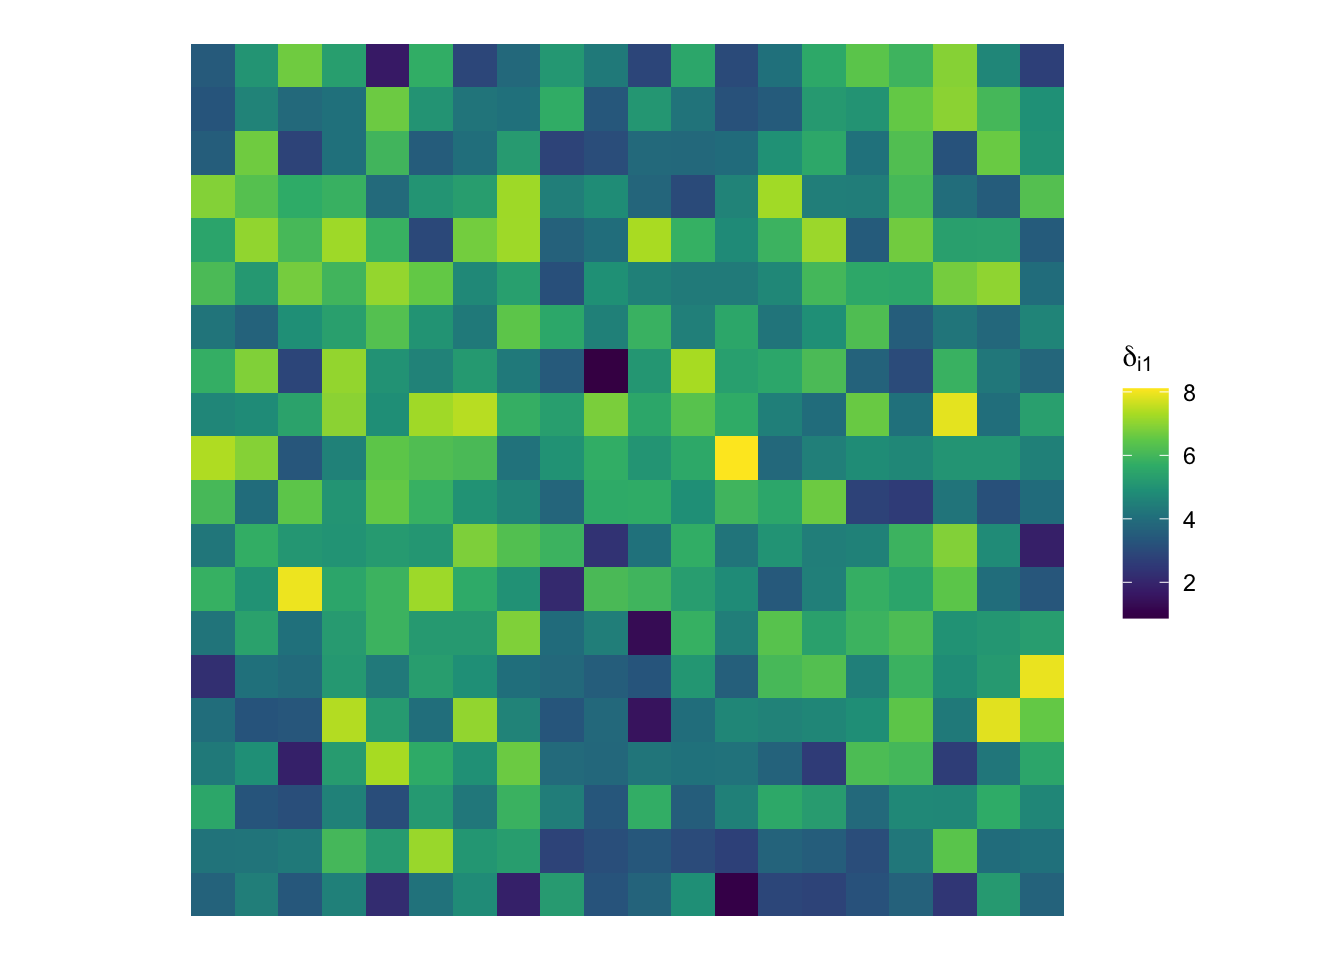
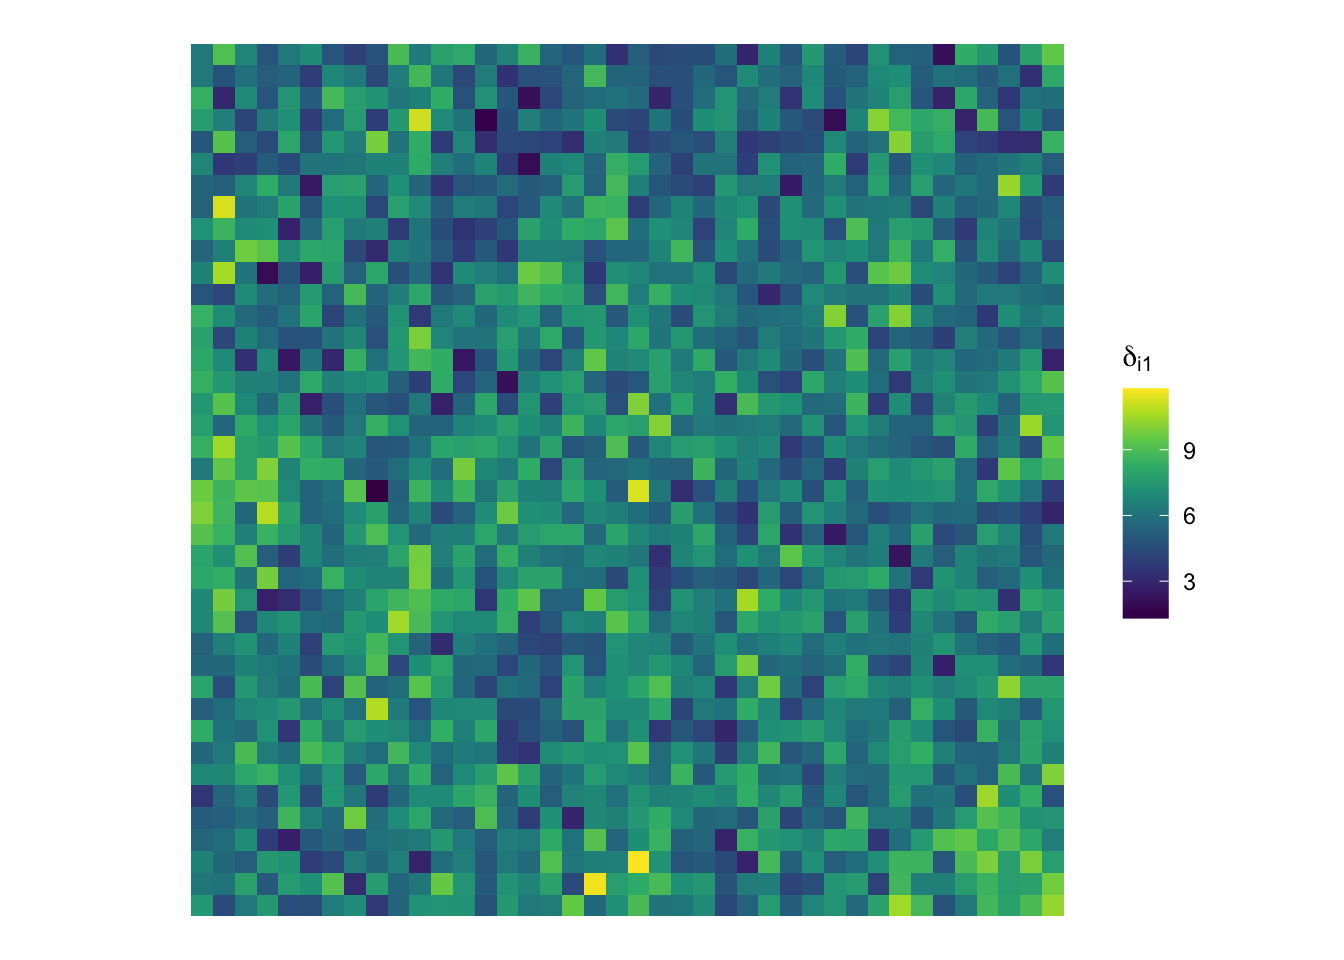
update research 12

diff --git a/docs/research/2023-03-07-Step-12-MCMC-for-MCAR-basic-example/index.html b/docs/research/2023-03-07-Step-12-MCMC-for-MCAR-basic-example/index.html
@@ -344,7 +344,7 @@ n &amp;= \text{number of areal units}\\
 <details>
 <summary>Code</summary>
 <div class="sourceCode cell-code" id="cb2"><pre class="sourceCode r code-with-copy"><code class="sourceCode r"><span id="cb2-1"><a href="#cb2-1" aria-hidden="true" tabindex="-1"></a><span class="co"># specify spatial domain</span></span>
-<span id="cb2-2"><a href="#cb2-2" aria-hidden="true" tabindex="-1"></a>n <span class="ot">&lt;-</span> <span class="dv">20</span><span class="sc">^</span><span class="dv">2</span></span>
+<span id="cb2-2"><a href="#cb2-2" aria-hidden="true" tabindex="-1"></a>n <span class="ot">&lt;-</span> <span class="dv">40</span><span class="sc">^</span><span class="dv">2</span></span>
 <span id="cb2-3"><a href="#cb2-3" aria-hidden="true" tabindex="-1"></a>spat_domain <span class="ot">&lt;-</span> <span class="fu">expand.grid</span>(<span class="at">x =</span> <span class="dv">1</span><span class="sc">:</span><span class="fu">sqrt</span>(n), <span class="at">y =</span> <span class="dv">1</span><span class="sc">:</span><span class="fu">sqrt</span>(n))</span>
 <span id="cb2-4"><a href="#cb2-4" aria-hidden="true" tabindex="-1"></a>spat_domain<span class="sc">$</span>label <span class="ot">&lt;-</span> <span class="dv">1</span><span class="sc">:</span>n</span>
 <span id="cb2-5"><a href="#cb2-5" aria-hidden="true" tabindex="-1"></a></span>
@@ -427,6 +427,83 @@ n &amp;= \text{number of areal units}\\
 <div class="cell-output-display">
 <p><img src="index_files/figure-html/unnamed-chunk-7-1.png" class="img-fluid" width="672"></p>
 </div>
+</div>
+<p>Now for the MCMC.</p>
+<div class="cell">
+<details>
+<summary>Code</summary>
+<div class="sourceCode cell-code" id="cb8"><pre class="sourceCode r code-with-copy"><code class="sourceCode r"><span id="cb8-1"><a href="#cb8-1" aria-hidden="true" tabindex="-1"></a><span class="co"># set-up</span></span>
+<span id="cb8-2"><a href="#cb8-2" aria-hidden="true" tabindex="-1"></a>niter <span class="ot">&lt;-</span> <span class="dv">100</span></span>
+<span id="cb8-3"><a href="#cb8-3" aria-hidden="true" tabindex="-1"></a>keep_B      <span class="ot">&lt;-</span> <span class="fu">array</span>(<span class="cn">NA</span>, <span class="fu">dim</span>(p, q, niter))</span>
+<span id="cb8-4"><a href="#cb8-4" aria-hidden="true" tabindex="-1"></a>keep_Omega  <span class="ot">&lt;-</span> <span class="fu">array</span>(<span class="cn">NA</span>, <span class="fu">dim</span>(p, p, niter))</span>
+<span id="cb8-5"><a href="#cb8-5" aria-hidden="true" tabindex="-1"></a>keep_Lambda <span class="ot">&lt;-</span> <span class="fu">array</span>(<span class="cn">NA</span>, <span class="fu">dim</span>(p, p, niter))</span>
+<span id="cb8-6"><a href="#cb8-6" aria-hidden="true" tabindex="-1"></a>keep_Phi    <span class="ot">&lt;-</span> <span class="fu">array</span>(<span class="cn">NA</span>, <span class="fu">dim</span>(n, p, niter))</span>
+<span id="cb8-7"><a href="#cb8-7" aria-hidden="true" tabindex="-1"></a>keep_rho    <span class="ot">&lt;-</span> <span class="fu">rep</span>(<span class="cn">NA</span>, niter)</span>
+<span id="cb8-8"><a href="#cb8-8" aria-hidden="true" tabindex="-1"></a></span>
+<span id="cb8-9"><a href="#cb8-9" aria-hidden="true" tabindex="-1"></a><span class="co"># initial values</span></span>
+<span id="cb8-10"><a href="#cb8-10" aria-hidden="true" tabindex="-1"></a>beta   <span class="ot">&lt;-</span> <span class="fu">matrix</span>(<span class="fu">rep</span>(<span class="dv">0</span>, q<span class="sc">*</span>p), <span class="at">ncol =</span> <span class="dv">1</span>)</span>
+<span id="cb8-11"><a href="#cb8-11" aria-hidden="true" tabindex="-1"></a>B      <span class="ot">&lt;-</span> <span class="fu">matrix</span>(<span class="fu">c</span>(beta), <span class="at">nrow =</span> p)</span>
+<span id="cb8-12"><a href="#cb8-12" aria-hidden="true" tabindex="-1"></a>Omega  <span class="ot">&lt;-</span> <span class="fu">diag</span>(p)</span>
+<span id="cb8-13"><a href="#cb8-13" aria-hidden="true" tabindex="-1"></a>Lambda <span class="ot">&lt;-</span> <span class="fu">diag</span>(p)</span>
+<span id="cb8-14"><a href="#cb8-14" aria-hidden="true" tabindex="-1"></a>Phi    <span class="ot">&lt;-</span> <span class="fu">matrix</span>(<span class="dv">0</span>, <span class="at">nrow =</span> n, <span class="at">ncol =</span> p)</span>
+<span id="cb8-15"><a href="#cb8-15" aria-hidden="true" tabindex="-1"></a>keep_B[,,<span class="dv">1</span>]      <span class="ot">&lt;-</span> B</span>
+<span id="cb8-16"><a href="#cb8-16" aria-hidden="true" tabindex="-1"></a>keep_Omega[,,<span class="dv">1</span>]  <span class="ot">&lt;-</span> Omega</span>
+<span id="cb8-17"><a href="#cb8-17" aria-hidden="true" tabindex="-1"></a>keep_Lambda[,,<span class="dv">1</span>] <span class="ot">&lt;-</span> Lambda</span>
+<span id="cb8-18"><a href="#cb8-18" aria-hidden="true" tabindex="-1"></a>keep_Phi[,,<span class="dv">1</span>]    <span class="ot">&lt;-</span> Phi</span>
+<span id="cb8-19"><a href="#cb8-19" aria-hidden="true" tabindex="-1"></a></span>
+<span id="cb8-20"><a href="#cb8-20" aria-hidden="true" tabindex="-1"></a><span class="co"># prior parameters</span></span>
+<span id="cb8-21"><a href="#cb8-21" aria-hidden="true" tabindex="-1"></a>mu        <span class="ot">&lt;-</span> <span class="fu">rep</span>(<span class="dv">0</span>, q<span class="sc">*</span>p)</span>
+<span id="cb8-22"><a href="#cb8-22" aria-hidden="true" tabindex="-1"></a>Gamma     <span class="ot">&lt;-</span> <span class="dv">10000</span><span class="sc">*</span><span class="fu">diag</span>(p)</span>
+<span id="cb8-23"><a href="#cb8-23" aria-hidden="true" tabindex="-1"></a>Gamma_inv <span class="ot">&lt;-</span> <span class="fu">solve</span>(Gamma) </span>
+<span id="cb8-24"><a href="#cb8-24" aria-hidden="true" tabindex="-1"></a>G  <span class="ot">&lt;-</span> </span>
+<span id="cb8-25"><a href="#cb8-25" aria-hidden="true" tabindex="-1"></a>R  <span class="ot">&lt;-</span> </span>
+<span id="cb8-26"><a href="#cb8-26" aria-hidden="true" tabindex="-1"></a>nu <span class="ot">&lt;-</span> </span>
+<span id="cb8-27"><a href="#cb8-27" aria-hidden="true" tabindex="-1"></a>xi <span class="ot">&lt;-</span> </span>
+<span id="cb8-28"><a href="#cb8-28" aria-hidden="true" tabindex="-1"></a></span>
+<span id="cb8-29"><a href="#cb8-29" aria-hidden="true" tabindex="-1"></a><span class="co"># pre-computes</span></span>
+<span id="cb8-30"><a href="#cb8-30" aria-hidden="true" tabindex="-1"></a>ZtZ <span class="ot">&lt;-</span> <span class="fu">t</span>(Z)<span class="sc">%*%</span>Z</span>
+<span id="cb8-31"><a href="#cb8-31" aria-hidden="true" tabindex="-1"></a>Gamma_inv_mu <span class="ot">&lt;-</span> <span class="fu">solve</span>(Gamma)<span class="sc">%*%</span>mu</span></code><button title="Copy to Clipboard" class="code-copy-button"><i class="bi"></i></button></pre></div>
+</details>
+</div>
+<div class="cell">
+<details>
+<summary>Code</summary>
+<div class="sourceCode cell-code" id="cb9"><pre class="sourceCode r code-with-copy"><code class="sourceCode r"><span id="cb9-1"><a href="#cb9-1" aria-hidden="true" tabindex="-1"></a><span class="fu">tic</span>()</span>
+<span id="cb9-2"><a href="#cb9-2" aria-hidden="true" tabindex="-1"></a><span class="cf">for</span> (iter <span class="cf">in</span> <span class="dv">1</span><span class="sc">:</span>niter){</span>
+<span id="cb9-3"><a href="#cb9-3" aria-hidden="true" tabindex="-1"></a>  </span>
+<span id="cb9-4"><a href="#cb9-4" aria-hidden="true" tabindex="-1"></a>  <span class="co"># sample beta</span></span>
+<span id="cb9-5"><a href="#cb9-5" aria-hidden="true" tabindex="-1"></a>  M     <span class="ot">&lt;-</span> <span class="fu">kronecker</span>(<span class="fu">t</span>(Z), Omega_inv)<span class="sc">%*%</span>(<span class="fu">c</span>(<span class="fu">t</span>(Delta)) <span class="sc">-</span> <span class="fu">c</span>(<span class="fu">t</span>(Phi)))</span>
+<span id="cb9-6"><a href="#cb9-6" aria-hidden="true" tabindex="-1"></a>  V_inv <span class="ot">&lt;-</span> <span class="fu">solve</span>(ZtZ<span class="sc">%*%</span>Omega_inv <span class="sc">+</span> Gamma_inv)</span>
+<span id="cb9-7"><a href="#cb9-7" aria-hidden="true" tabindex="-1"></a>  beta  <span class="ot">&lt;-</span> V_inv<span class="sc">%*%</span>M <span class="sc">+</span> <span class="fu">t</span>(<span class="fu">chol</span>(V_inv))<span class="sc">%*%</span><span class="fu">rnorm</span>(q<span class="sc">*</span>p) </span>
+<span id="cb9-8"><a href="#cb9-8" aria-hidden="true" tabindex="-1"></a>  B     <span class="ot">&lt;-</span> <span class="fu">matrix</span>(<span class="fu">c</span>(beta), <span class="at">nrow =</span> p)</span>
+<span id="cb9-9"><a href="#cb9-9" aria-hidden="true" tabindex="-1"></a>  </span>
+<span id="cb9-10"><a href="#cb9-10" aria-hidden="true" tabindex="-1"></a>  <span class="co"># sample phi</span></span>
+<span id="cb9-11"><a href="#cb9-11" aria-hidden="true" tabindex="-1"></a>  <span class="cf">for</span> (i <span class="cf">in</span> <span class="dv">1</span><span class="sc">:</span>n){</span>
+<span id="cb9-12"><a href="#cb9-12" aria-hidden="true" tabindex="-1"></a>    M       <span class="ot">&lt;-</span> Omega_inv<span class="sc">%*%</span>(Delta[i,] <span class="sc">-</span> B<span class="sc">%*%</span>Z[i,]) <span class="sc">+</span> rho<span class="sc">*</span>Lambda_inv<span class="sc">%*%</span><span class="fu">t</span>(Phi)<span class="sc">%*%</span>W[i,]</span>
+<span id="cb9-13"><a href="#cb9-13" aria-hidden="true" tabindex="-1"></a>    V_inv   <span class="ot">&lt;-</span> <span class="fu">solve</span>(Omega_inv <span class="sc">+</span> D[i,i]<span class="sc">*</span>Lambda_inv)</span>
+<span id="cb9-14"><a href="#cb9-14" aria-hidden="true" tabindex="-1"></a>    Phi[i,] <span class="ot">&lt;-</span> V_inv<span class="sc">%*%</span>M <span class="sc">+</span> <span class="fu">t</span>(<span class="fu">chol</span>(V_inv))<span class="sc">%*%</span><span class="fu">rnorm</span>(p)</span>
+<span id="cb9-15"><a href="#cb9-15" aria-hidden="true" tabindex="-1"></a>  }</span>
+<span id="cb9-16"><a href="#cb9-16" aria-hidden="true" tabindex="-1"></a>  </span>
+<span id="cb9-17"><a href="#cb9-17" aria-hidden="true" tabindex="-1"></a>  <span class="co"># sample Omega</span></span>
+<span id="cb9-18"><a href="#cb9-18" aria-hidden="true" tabindex="-1"></a>  H <span class="ot">&lt;-</span> </span>
+<span id="cb9-19"><a href="#cb9-19" aria-hidden="true" tabindex="-1"></a>  Omega <span class="ot">&lt;-</span> <span class="fu">rinvwishart</span>(<span class="dv">1</span>, n <span class="sc">+</span> nu, G <span class="sc">+</span> H)</span>
+<span id="cb9-20"><a href="#cb9-20" aria-hidden="true" tabindex="-1"></a>  </span>
+<span id="cb9-21"><a href="#cb9-21" aria-hidden="true" tabindex="-1"></a>  <span class="co"># sample Lambda</span></span>
+<span id="cb9-22"><a href="#cb9-22" aria-hidden="true" tabindex="-1"></a>  S <span class="ot">&lt;-</span> <span class="fu">t</span>(Phi)<span class="sc">%*%</span>(D <span class="sc">-</span> rho<span class="sc">*</span>W)<span class="sc">%*%</span>Phi</span>
+<span id="cb9-23"><a href="#cb9-23" aria-hidden="true" tabindex="-1"></a>  Lambda <span class="ot">&lt;-</span> <span class="fu">rinvwishart</span>(<span class="dv">1</span>, n <span class="sc">+</span> xi, R <span class="sc">+</span> S)</span>
+<span id="cb9-24"><a href="#cb9-24" aria-hidden="true" tabindex="-1"></a>  </span>
+<span id="cb9-25"><a href="#cb9-25" aria-hidden="true" tabindex="-1"></a>  <span class="co"># sample rho</span></span>
+<span id="cb9-26"><a href="#cb9-26" aria-hidden="true" tabindex="-1"></a>  <span class="co"># </span><span class="al">TODO</span></span>
+<span id="cb9-27"><a href="#cb9-27" aria-hidden="true" tabindex="-1"></a>  <span class="co"># tune rho sampler</span></span>
+<span id="cb9-28"><a href="#cb9-28" aria-hidden="true" tabindex="-1"></a>  <span class="co"># </span><span class="al">TODO</span></span>
+<span id="cb9-29"><a href="#cb9-29" aria-hidden="true" tabindex="-1"></a>  </span>
+<span id="cb9-30"><a href="#cb9-30" aria-hidden="true" tabindex="-1"></a>  <span class="co"># store results</span></span>
+<span id="cb9-31"><a href="#cb9-31" aria-hidden="true" tabindex="-1"></a>  </span>
+<span id="cb9-32"><a href="#cb9-32" aria-hidden="true" tabindex="-1"></a>}</span>
+<span id="cb9-33"><a href="#cb9-33" aria-hidden="true" tabindex="-1"></a></span>
+<span id="cb9-34"><a href="#cb9-34" aria-hidden="true" tabindex="-1"></a></span>
+<span id="cb9-35"><a href="#cb9-35" aria-hidden="true" tabindex="-1"></a><span class="fu">toc</span>()</span></code><button title="Copy to Clipboard" class="code-copy-button"><i class="bi"></i></button></pre></div>
+</details>
 </div>
 
 

diff --git a/docs/research.html b/docs/research.html
@@ -206,7 +206,7 @@ ul.task-list li input[type="checkbox"] {
 </tr>
 </thead>
 <tbody class="list">
-<tr data-index="0" data-categories="Bayesian,MCMC,Spatial,MCAR" data-listing-date-sort="1679544000000" data-listing-file-modified-sort="1679599334413" data-listing-reading-time-sort="3.65" data-listing-title-sort="Step 12 - A Bayesian HM for multivariate Guassian data and MCAR prior - MCMC Implementation" data-listing-filename-sort="index.qmd">
+<tr data-index="0" data-categories="Bayesian,MCMC,Spatial,MCAR" data-listing-date-sort="1679544000000" data-listing-file-modified-sort="1679602748603" data-listing-reading-time-sort="5.115" data-listing-title-sort="Step 12 - A Bayesian HM for multivariate Guassian data and MCAR prior - MCMC Implementation" data-listing-filename-sort="index.qmd">
 <td class="listing-date">
 Mar 23, 2023
 </td>
